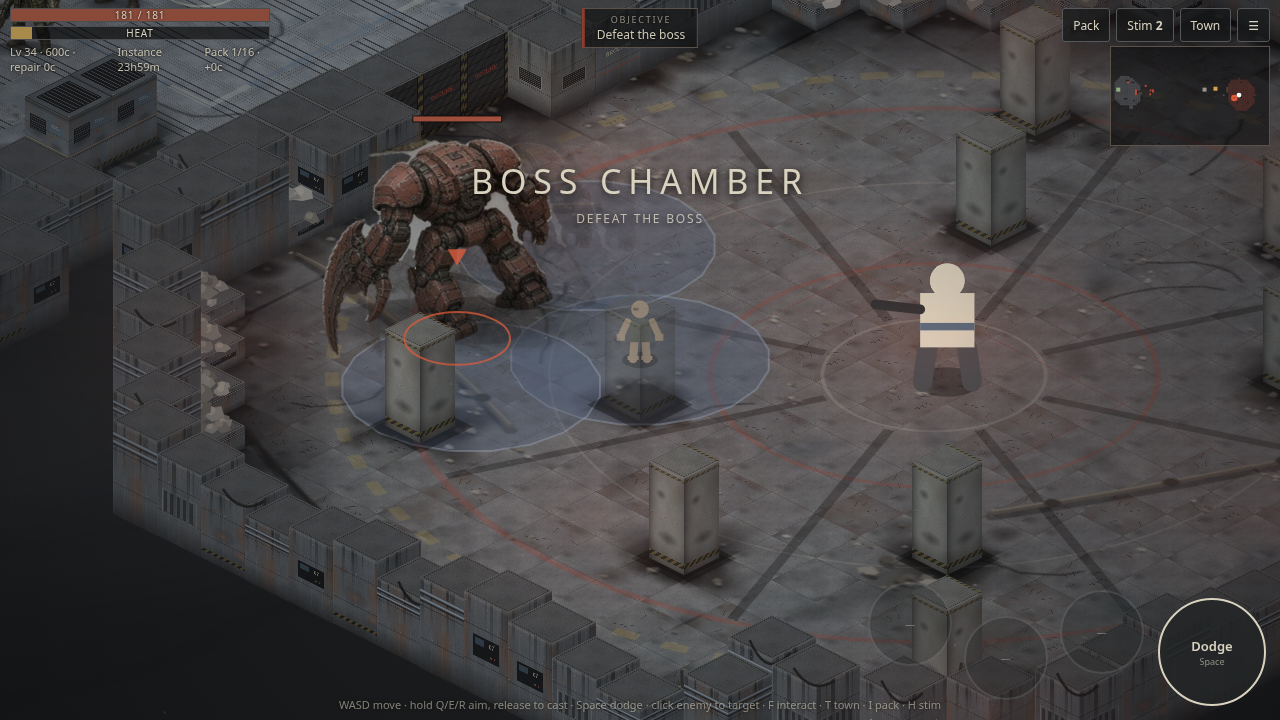
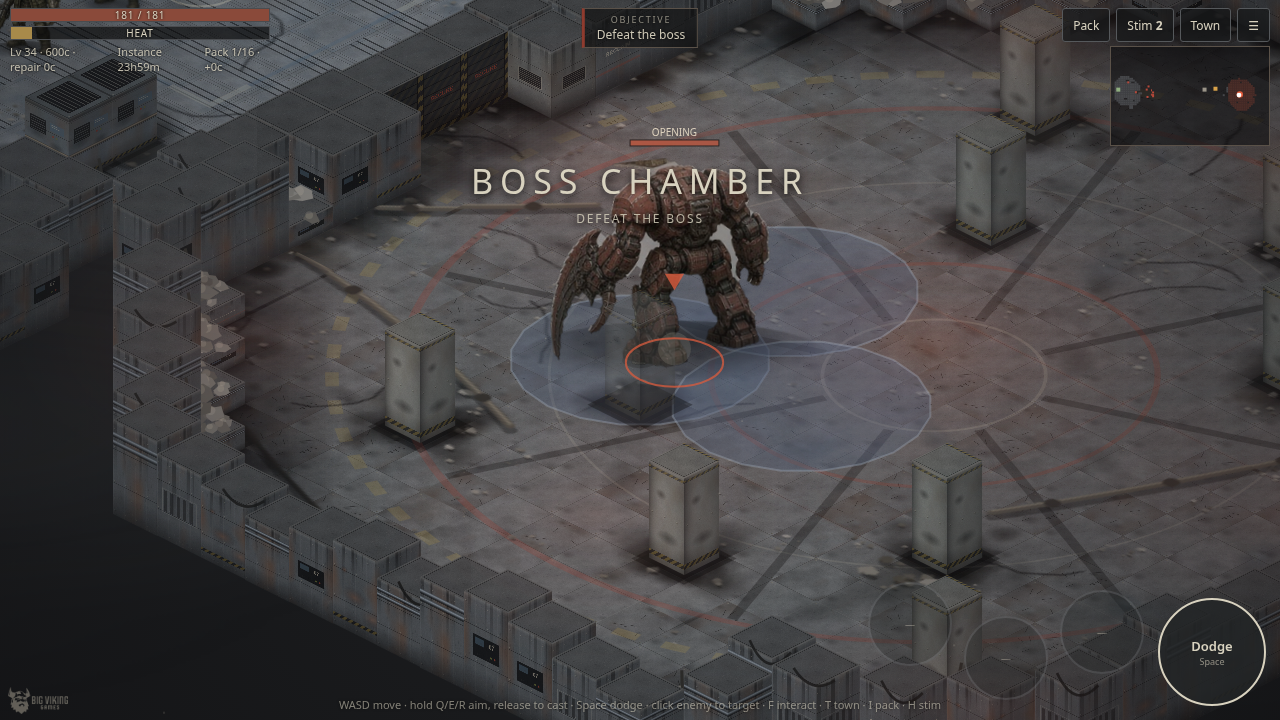
x

diff --git a/src/sim.ts b/src/sim.ts
@@ -12,7 +12,7 @@ export interface Zone { x:number; y:number; r:number; t:number; life:number; dps
 export interface Fx { kind:'slash'|'ring'|'burst'|'line'|'spark'|'blood'|'text'|'dust'|'vent'; x:number; y:number; a?:number; r?:number; t:number; life:number; text?:string; vx?:number; vy?:number; c?:string; len?:number; w?:number; }
 export interface AimState { idx:number; wx:number; wy:number; hasDir:boolean; }
 export interface Rt { // enemy transient runtime fields
-  st:'idle'|'chase'|'tele'|'rec'|'dash'|'lost'; t:number; atk:string; acd:Record<string,number>; ang:number; tx:number; ty:number; lost:number; vuln:number; reveal:number; bornT:number; fire:number; shots:{x:number;y:number}[]; hit:number; dashed:boolean; strafe:number; chained?:boolean;
+  st:'idle'|'chase'|'tele'|'rec'|'dash'|'lost'; t:number; atk:string; acd:Record<string,number>; ang:number; tx:number; ty:number; lost:number; vuln:number; reveal:number; bornT:number; fire:number; shots:{x:number;y:number}[]; hit:number; wpT?:number; wp?:{x:number;y:number}|null; sx?:number; sy?:number; sT?:number; unstick?:number; side?:number; dashed:boolean; strafe:number; chained?:boolean;
 }
 export type En = EnemyState & { _rt:Rt };
 
@@ -30,7 +30,7 @@ export class Game {
   slideT=0; slideFx=0; slideFy=0; channel:{ kind:'town'|'hack'; t:number; dur:number; cb:()=>void }|null=null;
   inputMove={x:0,y:0}; build!:BuildResult; moving=false; prompt:Interact|null=null; musicState='traversal'; combatHold=0; toastQ:string[]=[];
   dbg={god:false,oneShot:false};
-  flow:Int16Array|null=null; flowT=0; kills=0; saveT=0; sensorFlag=false; lastRoute='';
+  flow:Int16Array|null=null; flows:(Int16Array|null)[]=[null,null,null]; clr:(Uint8Array|null)[]=[null,null,null]; clrLevel:Level|null=null; q:Int32Array|null=null; frame=0; flowT=0; kills=0; saveT=0; sensorFlag=false; lastRoute='';
   constructor(save:Save, emit:Emit){ this.save=save; this.emit=emit; this.level=buildTown(); this.recompute(); this.enterTown(true); }
 
   // ---------- build / stats ----------
@@ -100,7 +100,11 @@ export class Game {
   // ---------- helpers ----------
   solidAt(x:number,y:number){ const L=this.level; const ix=Math.floor(x), iy=Math.floor(y); if(ix<0||iy<0||ix>=L.w||iy>=L.h) return true; return L.solid[iy*L.w+ix]===1; }
   moveCircle(x:number,y:number,dx:number,dy:number,r:number){ let nx=x+dx, ny=y; if(this.circleHits(nx,ny,r)) nx=x; ny=y+dy; if(this.circleHits(nx,ny,r)) ny=y; return {x:nx,y:ny}; }
-  circleHits(x:number,y:number,r:number){ return this.solidAt(x-r,y-r)||this.solidAt(x+r,y-r)||this.solidAt(x-r,y+r)||this.solidAt(x+r,y+r); }
+  circleHits(x:number,y:number,r:number){ const x0=Math.floor(x-r), x1=Math.floor(x+r), y0=Math.floor(y-r), y1=Math.floor(y+r); for(let iy=y0;iy<=y1;iy++)for(let ix=x0;ix<=x1;ix++){ if(!this.solidAt(ix+.5,iy+.5)) continue; const cx=clamp(x,ix,ix+1), cy=clamp(y,iy,iy+1); const dx=x-cx, dy=y-cy; if(dx*dx+dy*dy<r*r-1e-6) return true; } return false; }
+  /** Swept circle clearance between two points (used for wide-LOS and path smoothing). */
+  clearFor(ax:number,ay:number,bx:number,by:number,r:number){ const d=dist(ax,ay,bx,by); const n=Math.max(1,Math.ceil(d/.3)); for(let i=1;i<=n;i++){ const t=i/n; if(this.circleHits(ax+(bx-ax)*t,ay+(by-ay)*t,r)) return false; } return true; }
+  /** Push an entity out of any collider it ended up inside (dash end, knockback, spawn). */
+  unwedge(o:{x:number;y:number},r:number){ if(!this.circleHits(o.x,o.y,r)) return; for(let ring=1;ring<=12;ring++){ const rr=ring*.15; for(let k=0;k<8;k++){ const a=k*Math.PI/4; const nx=o.x+Math.cos(a)*rr, ny=o.y+Math.sin(a)*rr; if(!this.circleHits(nx,ny,r)){ o.x=nx; o.y=ny; return; } } } }
   los(ax:number,ay:number,bx:number,by:number){ const d=dist(ax,ay,bx,by); const n=Math.ceil(d/.4); for(let i=1;i<n;i++){ const t=i/n; if(this.solidAt(ax+(bx-ax)*t,ay+(by-ay)*t)) return false; } return true; }
   zoneAt(x:number,y:number){ const L=this.level; const ix=Math.floor(x), iy=Math.floor(y); if(ix<0||iy<0||ix>=L.w||iy>=L.h) return 'none'; return L.zoneNames[L.zone[iy*L.w+ix]]; }
   stat(){ return this.build.stats; }
@@ -331,16 +335,30 @@ export class Game {
     if(this.prompt?.id!==best?.id) this.prompt=best; }
 
   // ---------- enemies ----------
-  flowField(){ const L=this.level; if(!this.flow||this.flow.length!==L.w*L.h) this.flow=new Int16Array(L.w*L.h); const fl=this.flow; fl.fill(-1); const sx=clamp(Math.floor(this.px),0,L.w-1), sy=clamp(Math.floor(this.py),0,L.h-1); const q=new Int32Array(L.w*L.h); let h=0,tl=0; q[tl++]=sy*L.w+sx; fl[sy*L.w+sx]=0;
-    while(h<tl){ const c=q[h++]; const cx=c%L.w, cy=(c/L.w)|0; const d=fl[c]; for(const [dx,dy] of [[1,0],[-1,0],[0,1],[0,-1]]){ const nx=cx+dx, ny=cy+dy; if(nx<0||ny<0||nx>=L.w||ny>=L.h) continue; const ni=ny*L.w+nx; if(fl[ni]>=0||L.solid[ni]) continue; fl[ni]=d+1; q[tl++]=ni; } } }
-  flowDir(e:En):{x:number;y:number}|null{ const L=this.level; const fl=this.flow; if(!fl) return null; const cx=Math.floor(e.x), cy=Math.floor(e.y); let best=fl[cy*L.w+cx]; if(best<0) return null; let bx=cx,by=cy;
-    for(let dy=-1;dy<=1;dy++)for(let dx=-1;dx<=1;dx++){ if(!dx&&!dy) continue; const nx=cx+dx,ny=cy+dy; if(nx<0||ny<0||nx>=L.w||ny>=L.h) continue; const ni=ny*L.w+nx; if(L.solid[ni]||fl[ni]<0) continue; if(dx&&dy&&(L.solid[cy*L.w+nx]||L.solid[ny*L.w+cx])) continue; if(fl[ni]<best){ best=fl[ni]; bx=nx; by=ny; } }
-    if(bx===cx&&by===cy) return null; return { x:bx+.5, y:by+.5 }; }
+  /** Flow field toward the player on the tile grid. cls 0 = plain walkable tiles; 1/2 = tiles with clearance for radius .7 / 1.1 (so wide bosses path around pillars instead of wedging). */
+  static FLOW_R=[0,.7,1.1];
+  flowCls(r:number){ return r<=.5?0:r<=.72?1:2; }
+  flowField(cls=0){ const L=this.level; const n=L.w*L.h; if(!this.flows[cls]||this.flows[cls]!.length!==n) this.flows[cls]=new Int16Array(n); const fl=this.flows[cls]!; fl.fill(-1); const R=Game.FLOW_R[cls]; if(cls===0) this.flow=fl;
+    if(!this.clr[cls]||this.clr[cls]!.length!==n||this.clrLevel!==L){ if(this.clrLevel!==L){ this.clrLevel=L; this.clr=[null,null,null]; } const m=new Uint8Array(n); for(let y=0;y<L.h;y++)for(let x=0;x<L.w;x++) m[y*L.w+x]=(!L.solid[y*L.w+x]&&(R===0||!this.circleHits(x+.5,y+.5,R)))?1:0; this.clr[cls]=m; }
+    const ok=this.clr[cls]!; const sx=clamp(Math.floor(this.px),0,L.w-1), sy=clamp(Math.floor(this.py),0,L.h-1); if(!this.q||this.q.length!==n) this.q=new Int32Array(n); const q=this.q; let h=0,tl=0; q[tl++]=sy*L.w+sx; fl[sy*L.w+sx]=0;
+    while(h<tl){ const c=q[h++]; const cx=c%L.w, cy=(c/L.w)|0; const d=fl[c]; for(let k=0;k<4;k++){ const nx=cx+(k===0?1:k===1?-1:0), ny=cy+(k===2?1:k===3?-1:0); if(nx<0||ny<0||nx>=L.w||ny>=L.h) continue; const ni=ny*L.w+nx; if(fl[ni]>=0||L.solid[ni]) continue; if(!ok[ni]&&!(Math.abs(nx-sx)<=2&&Math.abs(ny-sy)<=2)) continue; fl[ni]=d+1; q[tl++]=ni; } } }
+  flowDir(e:En,cls=0):{x:number;y:number}|null{ const L=this.level; const fl=this.flows[cls]; if(!fl) return null; const r=ENEMIES[e.type].radius*.85; let cx=clamp(Math.floor(e.x),0,L.w-1), cy=clamp(Math.floor(e.y),0,L.h-1); const val=(x:number,y:number)=>fl[y*L.w+x];
+    // step greedily down the field, keeping the farthest waypoint that is still swept-clear for this radius
+    let best=val(cx,cy); let wp:{x:number;y:number}|null=null; let lastClear:{x:number;y:number}|null=null;
+    for(let step=0;step<8;step++){ let bx=cx,by=cy,bv=best<0?1e9:best; for(let dy=-1;dy<=1;dy++)for(let dx=-1;dx<=1;dx++){ if(!dx&&!dy) continue; const nx=cx+dx,ny=cy+dy; if(nx<0||ny<0||nx>=L.w||ny>=L.h) continue; const v=val(nx,ny); if(v<0||L.solid[ny*L.w+nx]) continue; if(dx&&dy&&(L.solid[cy*L.w+nx]||L.solid[ny*L.w+cx])) continue; if(v<bv){ bv=v; bx=nx; by=ny; } }
+      if(bx===cx&&by===cy) break; cx=bx; cy=by; best=bv; wp={x:cx+.5,y:cy+.5}; if(step===0||this.clearFor(e.x,e.y,wp.x,wp.y,r)) lastClear=wp; else break; if(best===0) break; }
+    if(!lastClear&&best<0&&!wp){ // inside a clearance-blocked tile: look two rings out for any field cell
+      let bv=1e9,bp:{x:number;y:number}|null=null; const ex=Math.floor(e.x), ey=Math.floor(e.y); for(let dy=-2;dy<=2;dy++)for(let dx=-2;dx<=2;dx++){ const nx=ex+dx,ny=ey+dy; if(nx<0||ny<0||nx>=L.w||ny>=L.h) continue; const v=val(nx,ny); if(v>=0&&v<bv&&!L.solid[ny*L.w+nx]){ bv=v; bp={x:nx+.5,y:ny+.5}; } } return bp; }
+    return lastClear; }
+  /** Move with obstacle-avoidance: try the desired heading, then fan out +-45/90/135 degrees; returns distance moved. */
+  steerMove(e:En,mx:number,my:number,speed:number,dt:number,r:number){ const step=speed*dt; const ox=e.x, oy=e.y; const base=Math.atan2(my,mx);
+    for(const off of [0,.6,-.6,1.2,-1.2,1.9,-1.9]){ const a=base+(off*(((e.id|0)&1)?1:-1)); const p=this.moveCircle(e.x,e.y,Math.cos(a)*step,Math.sin(a)*step,r); const mv=dist(p.x,p.y,ox,oy); if(mv>=step*.6||off===1.9){ e.x=p.x; e.y=p.y; return mv; } }
+    return 0; }
   opponents(faction:'enemy'|'ally'):{x:number;y:number;r:number;hurt:(d:number,sx:number,sy:number)=>void}[]{
     if(faction==='enemy'){ const out:any[]=[]; if(!this.downed) out.push({x:this.px,y:this.py,r:COMBAT.playerRadius,hurt:(d:number,sx:number,sy:number)=>this.hurtPlayer(d,sx,sy)}); for(const a of this.enemies) if(a.faction==='ally'&&!a.dead) out.push({x:a.x,y:a.y,r:ENEMIES[a.type].radius,hurt:(d:number,sx:number,sy:number)=>this.hurtEnemy(a,d*.7,sx,sy)}); return out; }
     return this.enemies.filter(e=>e.faction==='enemy'&&!e.dead&&e._rt.reveal<=0).map(e=>({x:e.x,y:e.y,r:ENEMIES[e.type].radius,hurt:(d:number,sx:number,sy:number)=>this.hurtEnemy(e,d,sx,sy,.4)})); }
   updateEnemies(dt:number){
-    this.flowT-=dt; if(this.flowT<=0){ this.flowT=.35; this.flowField(); }
+    this.frame++; this.flowT-=dt; if(this.flowT<=0){ this.flowT=.35; const need=[false,false,false]; for(const e of this.enemies){ if(!e.dead&&e.faction==='enemy'&&e.alert&&!ENEMIES[e.type].static) need[this.flowCls(ENEMIES[e.type].radius)]=true; } need[0]=true; for(let c=0;c<3;c++){ if(need[c]) this.flowField(c); } }
     const alive=this.enemies.filter(e=>!e.dead);
     for(const e of alive){ const rt=e._rt; for(const k in rt.acd) rt.acd[k]-=dt; if(rt.hit>0) rt.hit-=dt; if(rt.vuln>0) rt.vuln-=dt; if(rt.reveal>0) continue; this.updateEnemy(e,dt); }
     // separation
@@ -375,8 +393,11 @@ export class Game {
     if(e.faction==='ally'&&d<1.2) return;
     if(wantKeep&&d<wantKeep-1&&this.los(e.x,e.y,tx,ty)){ mx=-Math.cos(ang); my=-Math.sin(ang); const sd=rt.strafe; mx+= -Math.sin(ang)*sd*.5; my+= Math.cos(ang)*sd*.5; }
     else if(wantKeep&&d<wantKeep+1.5&&this.los(e.x,e.y,tx,ty)){ mx=-Math.sin(ang)*rt.strafe*.4; my=Math.cos(ang)*rt.strafe*.4; }
-    else if(d>(def.ranged?wantKeep:1.0)){ if(this.los(e.x,e.y,tx,ty)||d<3||!tgtIsPlayer){ mx=Math.cos(ang); my=Math.sin(ang); } else { const fd=this.flowDir(e); if(fd){ const a2=Math.atan2(fd.y-e.y,fd.x-e.x); mx=Math.cos(a2); my=Math.sin(a2); } else { mx=Math.cos(ang); my=Math.sin(ang); } } }
-    const l=Math.hypot(mx,my); if(l>0){ const p=this.moveCircle(e.x,e.y,mx/l*speed*dt,my/l*speed*dt,def.radius*.85); e.x=p.x; e.y=p.y; rt.ang=Math.atan2(my,mx); }
+    else if(d>(def.ranged?wantKeep:1.0)){ const rr=def.radius*.85; if(d<2.2&&this.clearFor(e.x,e.y,tx,ty,rr)||!tgtIsPlayer&&this.clearFor(e.x,e.y,tx,ty,rr)||this.clearFor(e.x,e.y,tx,ty,rr)&&d<14){ mx=Math.cos(ang); my=Math.sin(ang); rt.wp=null; } else { rt.wpT=(rt.wpT||0)-dt; if(rt.wpT<=0||!rt.wp){ rt.wpT=.15+((e.id|0)%4)*.03; rt.wp=this.flowDir(e,this.flowCls(def.radius)); } const w=rt.wp; if(w){ const a2=Math.atan2(w.y-e.y,w.x-e.x); mx=Math.cos(a2); my=Math.sin(a2); if(dist(e.x,e.y,w.x,w.y)<.35) rt.wpT=0; } else { mx=Math.cos(ang); my=Math.sin(ang); } } }
+    // stuck detection: no real progress while trying to move => sidestep + repath
+    if(rt.unstick&&rt.unstick>0){ rt.unstick-=dt; const pa=Math.atan2(my,mx)+(rt.side||1)*Math.PI/2; const lm=Math.hypot(mx,my)||1; mx=mx/lm*.5+Math.cos(pa)*.8; my=my/lm*.5+Math.sin(pa)*.8; }
+    const l=Math.hypot(mx,my); if(l>0){ this.unwedge(e,def.radius*.85); this.steerMove(e,mx/l,my/l,speed,dt,def.radius*.85); rt.ang=Math.atan2(my,mx);
+      rt.sT=(rt.sT||0)+dt; if(rt.sx===undefined){ rt.sx=e.x; rt.sy=e.y; rt.sT=0; } else if(rt.sT>=.5){ const prog=dist(e.x,e.y,rt.sx,rt.sy); if(prog<speed*.5*.3&&d>1.5){ rt.unstick=.7; rt.side=-(rt.side||((e.id|0)&1?1:-1)); rt.wp=null; rt.wpT=0; } rt.sx=e.x; rt.sy=e.y; rt.sT=0; } }
     else rt.ang=ang;
   }
   zoneSlow(e:En){ return false; }
@@ -415,14 +436,17 @@ export class Game {
       case 'slagshot': proj(Math.atan2(ty-e.y,tx-e.x),10); break; case 'dart': proj(Math.atan2(ty-e.y,tx-e.x),12); break;
       case 'scalpelfan': for(const o of [-.4,-.2,0,.2,.4]) proj(rt.ang+o,12); break;
       case 'slagpool': case 'gasvent': case 'ringpools': case 'sawlanes': case 'cratefall': break; // zone patterns spawn at telegraph start
-      case 'blink': { const fa=fac==='enemy'?this.face:Math.atan2(ty-e.y,tx-e.x); for(const dd of [2.2,1.5,1]){ const nx=tx-Math.cos(fa)*dd, ny=ty-Math.sin(fa)*dd; if(!this.solidAt(nx,ny)){ this.fx.push({kind:'dust',x:e.x,y:e.y,t:0,life:.4}); e.x=nx; e.y=ny; break; } } rt.ang=Math.atan2(ty-e.y,tx-e.x); rt.chained=true; rt.st='tele'; rt.atk='riposte'; rt.t=0; this.emit('sfx','slam'); return; }
+      case 'blink': { const fa=fac==='enemy'?this.face:Math.atan2(ty-e.y,tx-e.x); for(const dd of [2.2,1.5,1]){ const nx=tx-Math.cos(fa)*dd, ny=ty-Math.sin(fa)*dd; if(!this.circleHits(nx,ny,def.radius*.85)){ this.fx.push({kind:'dust',x:e.x,y:e.y,t:0,life:.4}); e.x=nx; e.y=ny; break; } } rt.ang=Math.atan2(ty-e.y,tx-e.x); rt.chained=true; rt.st='tele'; rt.atk='riposte'; rt.t=0; this.emit('sfx','slam'); return; }
       case 'charge': rt.st='dash'; rt.t=0; rt.dashed=false; rt.hit=0; (rt as any).hitP=false; return;
     }
   }
   dashStep(e:En,dt:number){
-    const def=ENEMIES[e.type]; const rt=e._rt; const sp=17; const dx=Math.cos(rt.ang)*sp*dt, dy=Math.sin(rt.ang)*sp*dt; const p=this.moveCircle(e.x,e.y,dx,dy,def.radius*.8); const moved=dist(p.x,p.y,e.x,e.y); e.x=p.x; e.y=p.y; rt.t+=dt;
+    const def=ENEMIES[e.type]; const rt=e._rt; const sp=17; const R=def.radius*.8; const want=sp*dt; const n=Math.max(1,Math.ceil(want/.25)); let moved=0;
+    for(let i=0;i<n;i++){ const sdt=dt/n; const dx=Math.cos(rt.ang)*sp*sdt, dy=Math.sin(rt.ang)*sp*sdt; // full-vector move only: a charge stops at a collider instead of sliding/wedging along it
+      if(this.circleHits(e.x+dx,e.y+dy,R)) break; e.x+=dx; e.y+=dy; moved+=Math.hypot(dx,dy); }
+    rt.t+=dt;
     for(const o of this.opponents(e.faction)){ if(dist(e.x,e.y,o.x,o.y)<def.radius+o.r+.2&&!(rt as any).hitP){ (rt as any).hitP=true; o.hurt(ENEMY_DMG.charge,e.x,e.y); } }
-    if(moved<sp*dt*.5||rt.t>.6){ rt.st='rec'; rt.atk='charge'; rt.t=0; rt.vuln=def.boss?2.8:1.8; this.fx.push({kind:'dust',x:e.x,y:e.y,t:0,life:.5}); this.emit('sfx','slam'); }
+    if(moved<want*.95||rt.t>.6){ this.unwedge(e,R); rt.sx=undefined; rt.unstick=0; rt.st='rec'; rt.atk='charge'; rt.t=0; rt.vuln=def.boss?2.8:1.8; this.fx.push({kind:'dust',x:e.x,y:e.y,t:0,life:.5}); this.emit('sfx','slam'); }
   }
   updateProjs(dt:number){
     for(const p of this.projs){ p.life-=dt; const nx=p.x+p.vx*dt, ny=p.y+p.vy*dt; if(this.solidAt(nx,ny)){ p.life=0; this.fx.push({kind:'spark',x:p.x,y:p.y,t:0,life:.2}); continue; } p.x=nx; p.y=ny;
